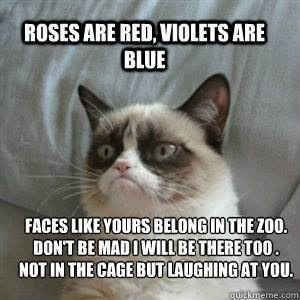
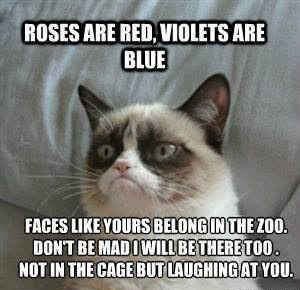
new

diff --git a/index.html b/index.html
@@ -37,10 +37,12 @@
                 </tr>
             </table>   
             
-            <td>
-                <p>
-                <img src="cat.jpg" width="300" height="300">
-            </p>
+            <td rowspan="2">
+                
+
+                    <img src="cat.jpg" width="100%" height="100%" style="position:relative min-height 100%;">
+
+                
             </td>
             
         </tr>
